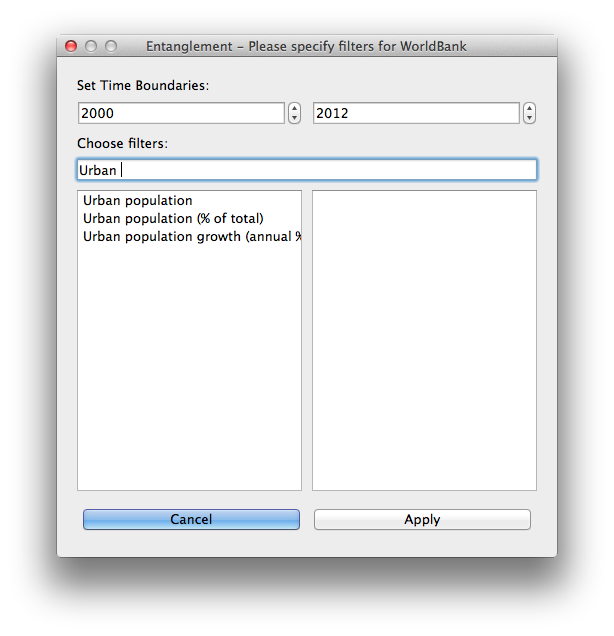
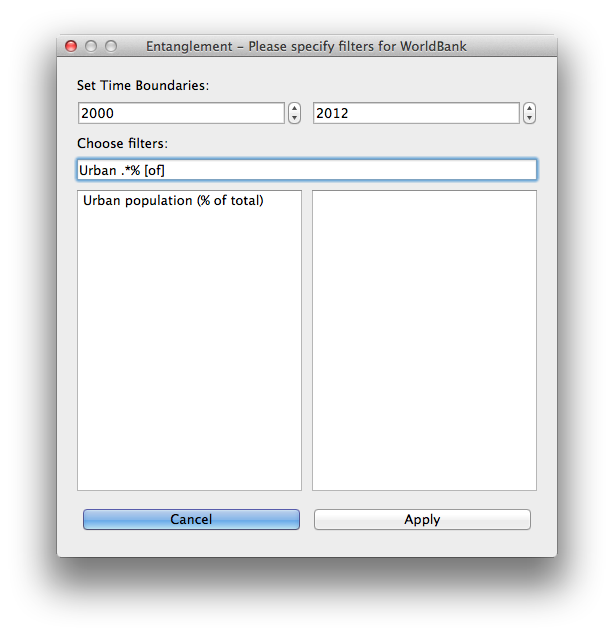
Updated documentation with pictures

Changed region(s): [[0.1238, 0.2987, 0.4951, 0.3884], [0.1857, 0.239, 0.2785, 0.2987]]

diff --git a/README.md b/README.md
@@ -64,7 +64,7 @@ Sooner or later you will want to visualize something, because, you know,
 that is what the tool is about. You can click any marker; a window will pop
 open and ask you to apply filters. 
 
-![You will be greeted by this window](https://github.com/hellerve/Detanglement/raw/master/rc/Documentation/filter.png "You will be greeted by this window")
+![You will be greeted by this window](https://github.com/hellerve/Detanglement/raw/master/rc/Documentation/filters.png "You will be greeted by this window")
 
 Certain filters will not be available for certain
 areas, but you will see that by experimenting. Other filters(like `Population
@@ -88,13 +88,50 @@ because it is based on Python 2.7 and we are using Python 3+, but we are working
 on that). You can also toggle geolocation and APIs, although the API section should look
 a bit... empty.
 
-Well, that's it with the features. There is more to come, though, so be prepared!
-
 
 Writing Plugins
 ---------------
 
-Coming soon.
+You have your own API that you want to visualize or want to contribute? Good for you!
+With the plugin system, it should be fairly easy.
+
+**What your data needs to be***
+
+In order for me to be able to visualize your data, it must be geolocalized and
+have some sort of timeline. If your data does not meet these criteria, I fear this
+tool is not for you; at least not yet.
+
+**What your plugin needs to have**
+
+Your plugin needs to have a single file that needs to be called from outside,
+with a single class(there can be more, but I need that one class) in it that 
+needs to meet the following criteria:
+
+    [1] The constructor is either called without arguments or with the API
+        keys as arguments.
+    [2] There is a public(no underscore) variable of type bool named 
+        `requiresFilter` which is either set to true(the API needs filters) or
+        false(it does not).
+    [3] There is a public method named `getLocations()` that takes no arguments
+        and returns a list of locations. Locations can either be country names
+        or city names.
+    [4] If the API requires a Filter(`requiresFilter = True`), there must be a
+        method named `getFilters()` that returns a list of human-readable filters.
+    [5] There is a public method named `getDataForLocation()` that takes a location,
+        a filter(both in the format provided by `getLocations()` and `getFilters()`
+        respectively) and a time range(two values in a single string seperated by commas,
+        e.g. "2010:2012" for a timeline from 2010 until 2012(both years included)).
+
+If you are able to provide those features, you are ready to try them out. The easiest way
+is to provide the needed API keys and the API name to Detanglement via the database 
+window(the dotted rectangle in the iconed bar of the main window) and then restart it.
+
+[The API adding window](https://github.com/hellerve/Detanglement/raw/master/rc/Documentation/addingapis.png "You can provide up to ten keys to the database")
+
+To be completely sure that the API will be loaded, you can run `Tangle.py -a MyApiName`
+which will load your API if possible. If not, nothing will be loaded.
+
+More coming soon.
 
 Contribute
 ----------
